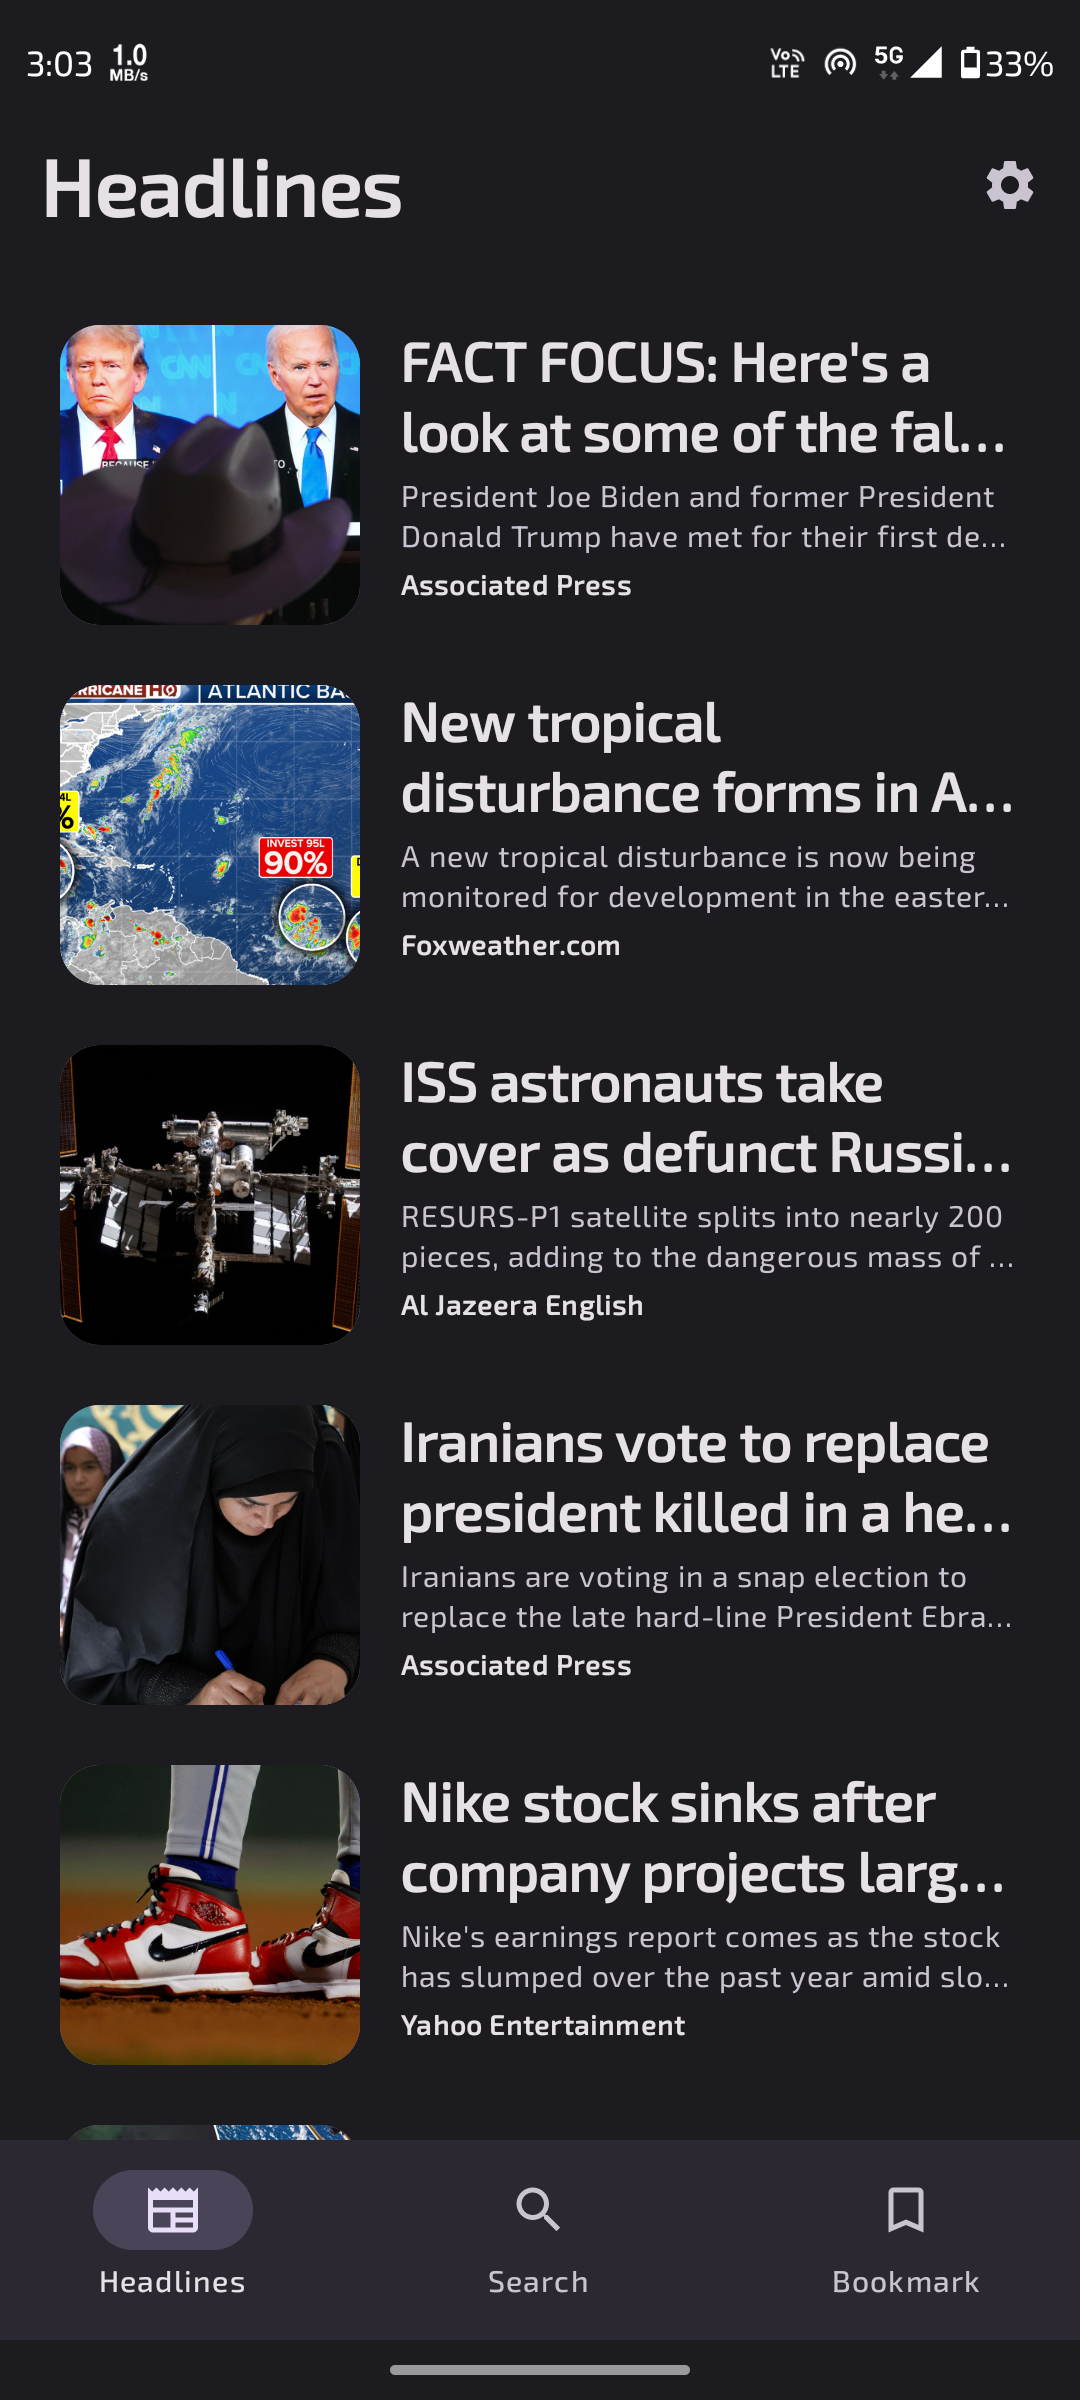
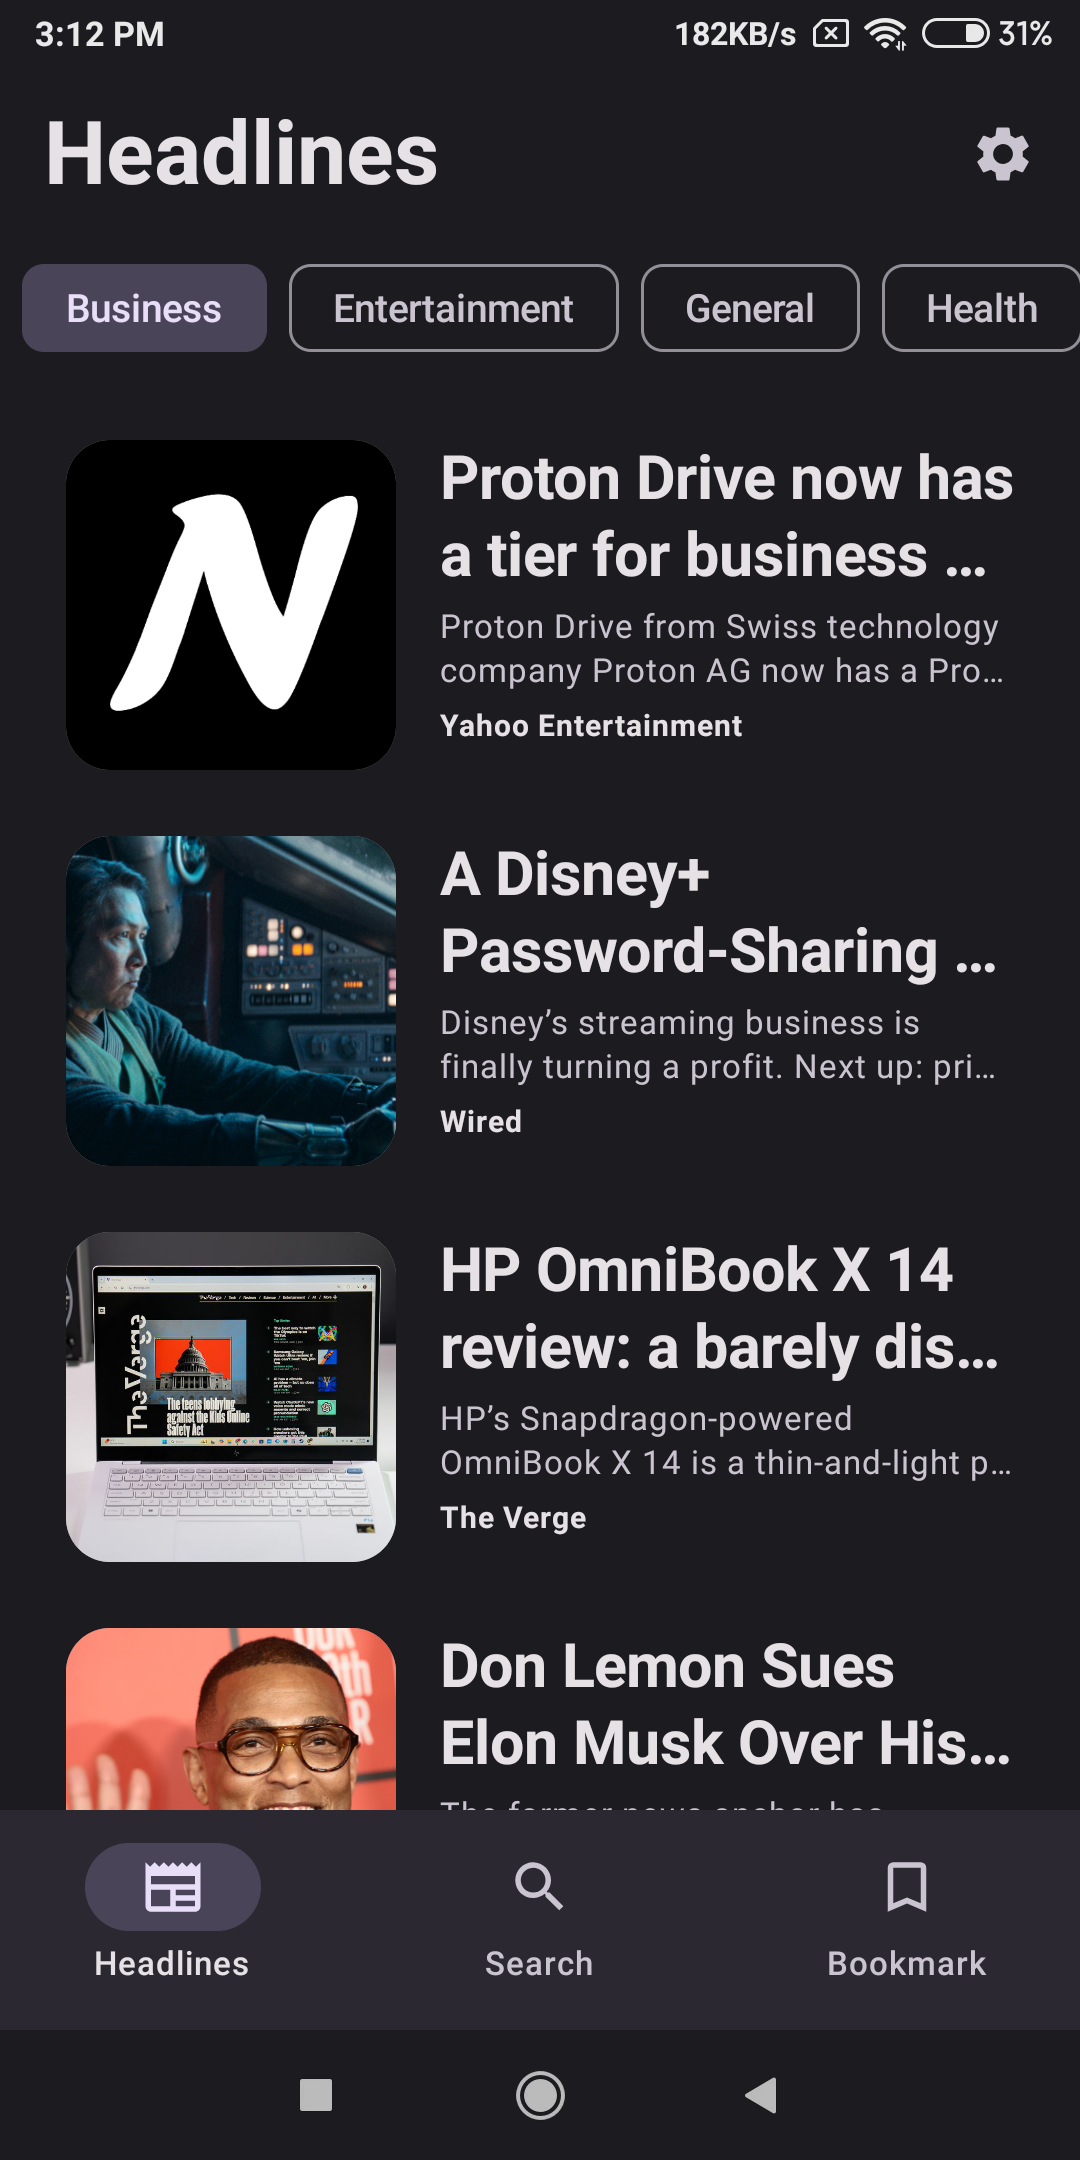
new feature add category in headline but in news everything api use for headline

diff --git a/composeApp/src/commonMain/kotlin/ui/headline/HeadlineViewModel.kt b/composeApp/src/commonMain/kotlin/ui/headline/HeadlineViewModel.kt
@@ -1,9 +1,7 @@
 package ui.headline
 
-import androidx.compose.runtime.LaunchedEffect
 import androidx.compose.runtime.getValue
 import androidx.compose.runtime.mutableStateOf
-import androidx.compose.runtime.saveable.rememberSaveable
 import androidx.compose.runtime.setValue
 import androidx.lifecycle.ViewModel
 import androidx.lifecycle.viewModelScope

diff --git a/README.md b/README.md
@@ -151,6 +151,10 @@ API_KEY=YOUR_API_KEY
 
 <table>
   <tr>
+    <td><img src="image/windows/new_feature.png" alt="win"></td>
+      </tr>
+  <tr>
+  <tr>
     <td><img src="image/windows/win1.png" alt="win"></td>
       </tr>
   <tr>
